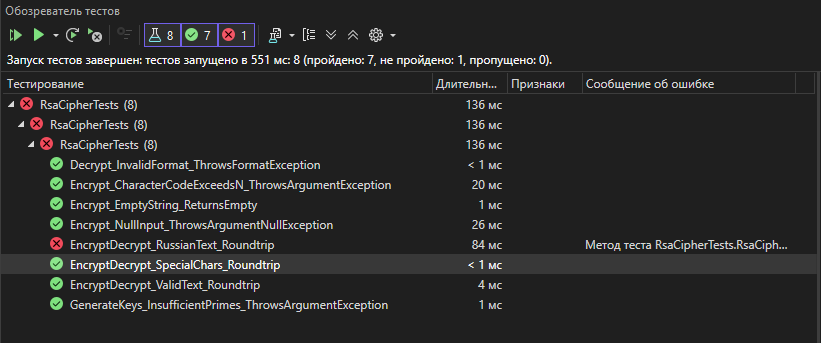
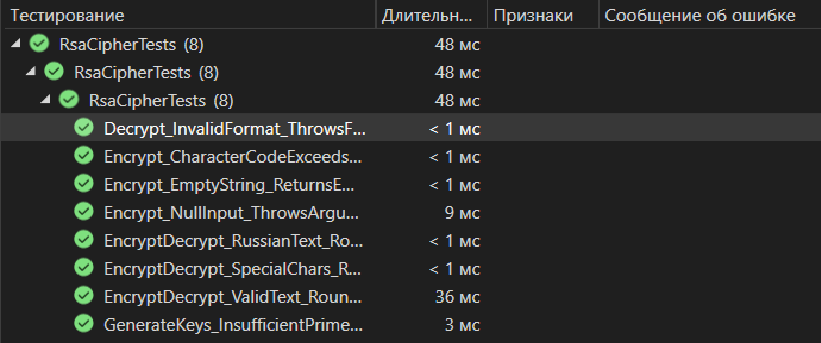
Все пункты выполнены

diff --git a/RsaCipherLib/Class1.cs b/RsaCipherLib/Class1.cs
@@ -105,21 +105,25 @@ namespace RsaCipherLib
                 return string.Empty;
 
             string[] parts = cipherText.Split(',');
-            List<byte> decryptedBytes = new List<byte>(parts.Length);
 
+            // Первый проход: проверяем, что все блоки можно преобразовать в BigInteger
             foreach (string part in parts)
             {
-                if (!BigInteger.TryParse(part.Trim(), out BigInteger c))
+                if (!BigInteger.TryParse(part.Trim(), out _))
                     throw new FormatException($"Блок '{part}' не является целым числом.");
+            }
 
+            // Второй проход: дешифруем (теперь ошибок формата не будет)
+            List<byte> decryptedBytes = new List<byte>(parts.Length);
+            foreach (string part in parts)
+            {
+                BigInteger c = BigInteger.Parse(part.Trim());
                 BigInteger m = BigInteger.ModPow(c, d, n);
                 if (m > byte.MaxValue)
                     throw new InvalidOperationException(
                         $"Расшифрованное значение {m} превышает 255. Возможно, неверный ключ или данные повреждены.");
-
                 decryptedBytes.Add((byte)m);
             }
-
             return Encoding.UTF8.GetString(decryptedBytes.ToArray());
         }
 

diff --git a/RsaCipherTests/UnitTest1.cs b/RsaCipherTests/UnitTest1.cs
@@ -9,8 +9,8 @@ namespace RsaCipherTests
     public class RsaCipherTests
     {
         // Фиксированные простые числа для предсказуемости тестов
-        private static readonly BigInteger p = 17;
-        private static readonly BigInteger q = 11;
+        private static readonly BigInteger p = 61;
+        private static readonly BigInteger q = 53;
         private static readonly BigInteger exp, d, n;
 
         static RsaCipherTests()
